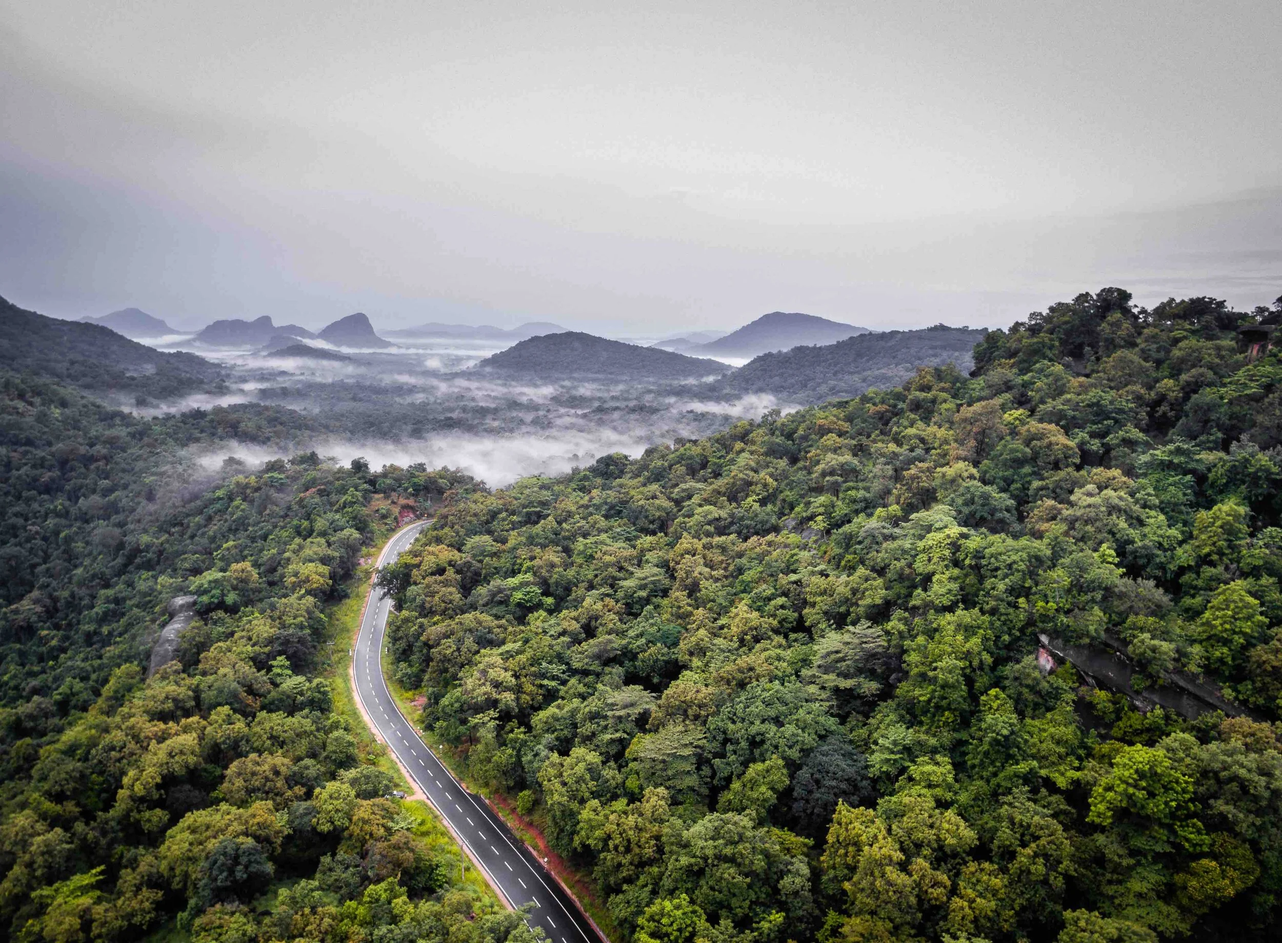
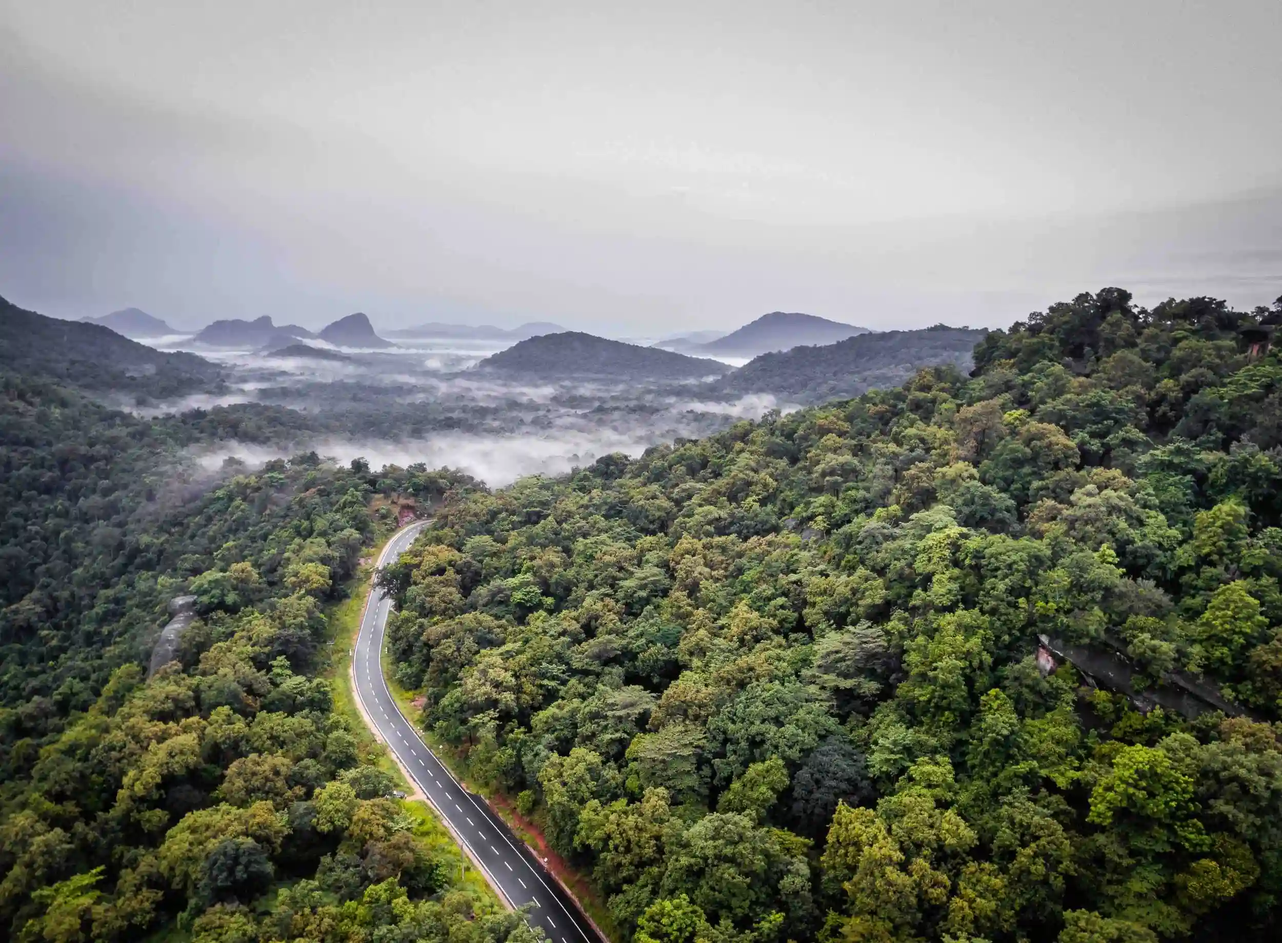
Fix: change image types

diff --git a/src/Components/Blogs.jsx b/src/Components/Blogs.jsx
@@ -5,7 +5,7 @@ const CulturalThings = () => {
     {
       title: "Jaffna Nallur Kovil Festival",
       category: "A Rare Northern Cultural Spectacle",
-      src: "/nallur-kovil.jpg",
+      src: "/nallur-kovil.webp",
       content: (
         <p>
           The Nallur Kandaswamy Kovil Festival in Jaffna is a deeply spiritual
@@ -18,7 +18,7 @@ const CulturalThings = () => {
     {
       title: "Riverston",
       category: "Misty Mountains and Untouched Trails",
-      src: "/riverston.JPG",
+      src: "/riverston.webp",
       content: (
         <p>
           Riverston is a tranquil highland escape known for cloud forests, cool
@@ -30,7 +30,7 @@ const CulturalThings = () => {
     {
       title: "Kalpitiya Lagoon",
       category: "Winds, Dolphins, and Silent Shores",
-      src: "/kalpitiya.jpg",
+      src: "/kalpitiya.webp",
       content: (
         <p>
           Kalpitiya is a secluded coastal region famous for dolphin watching,
@@ -54,7 +54,7 @@ const CulturalThings = () => {
     {
       title: "Madulsima Mini World’s End",
       category: "Cliffs Above the Clouds",
-      src: "/mini-worlds.jpg",
+      src: "/mini-worlds.webp",
       content: (
         <p>
           Madulsima provides breathtaking cliffside views similar to World’s End
@@ -90,7 +90,7 @@ const CulturalThings = () => {
     {
       title: "Mannar Island",
       category: "Desert Landscapes and Ancient Ruins",
-      src: "/mannar.jpg",
+      src: "/mannar.webp",
       content: (
         <p>
           Mannar Island offers a unique landscape of baobab trees, salt flats,

diff --git a/src/Components/HeroSection.jsx b/src/Components/HeroSection.jsx
@@ -1,6 +1,6 @@
 import { motion } from "framer-motion";
 import { useEffect, useState } from "react";
-import background from "../assets/background.jpg";
+import background from "../assets/background.webp";
 
 const HeroSection = () => {
   return (
